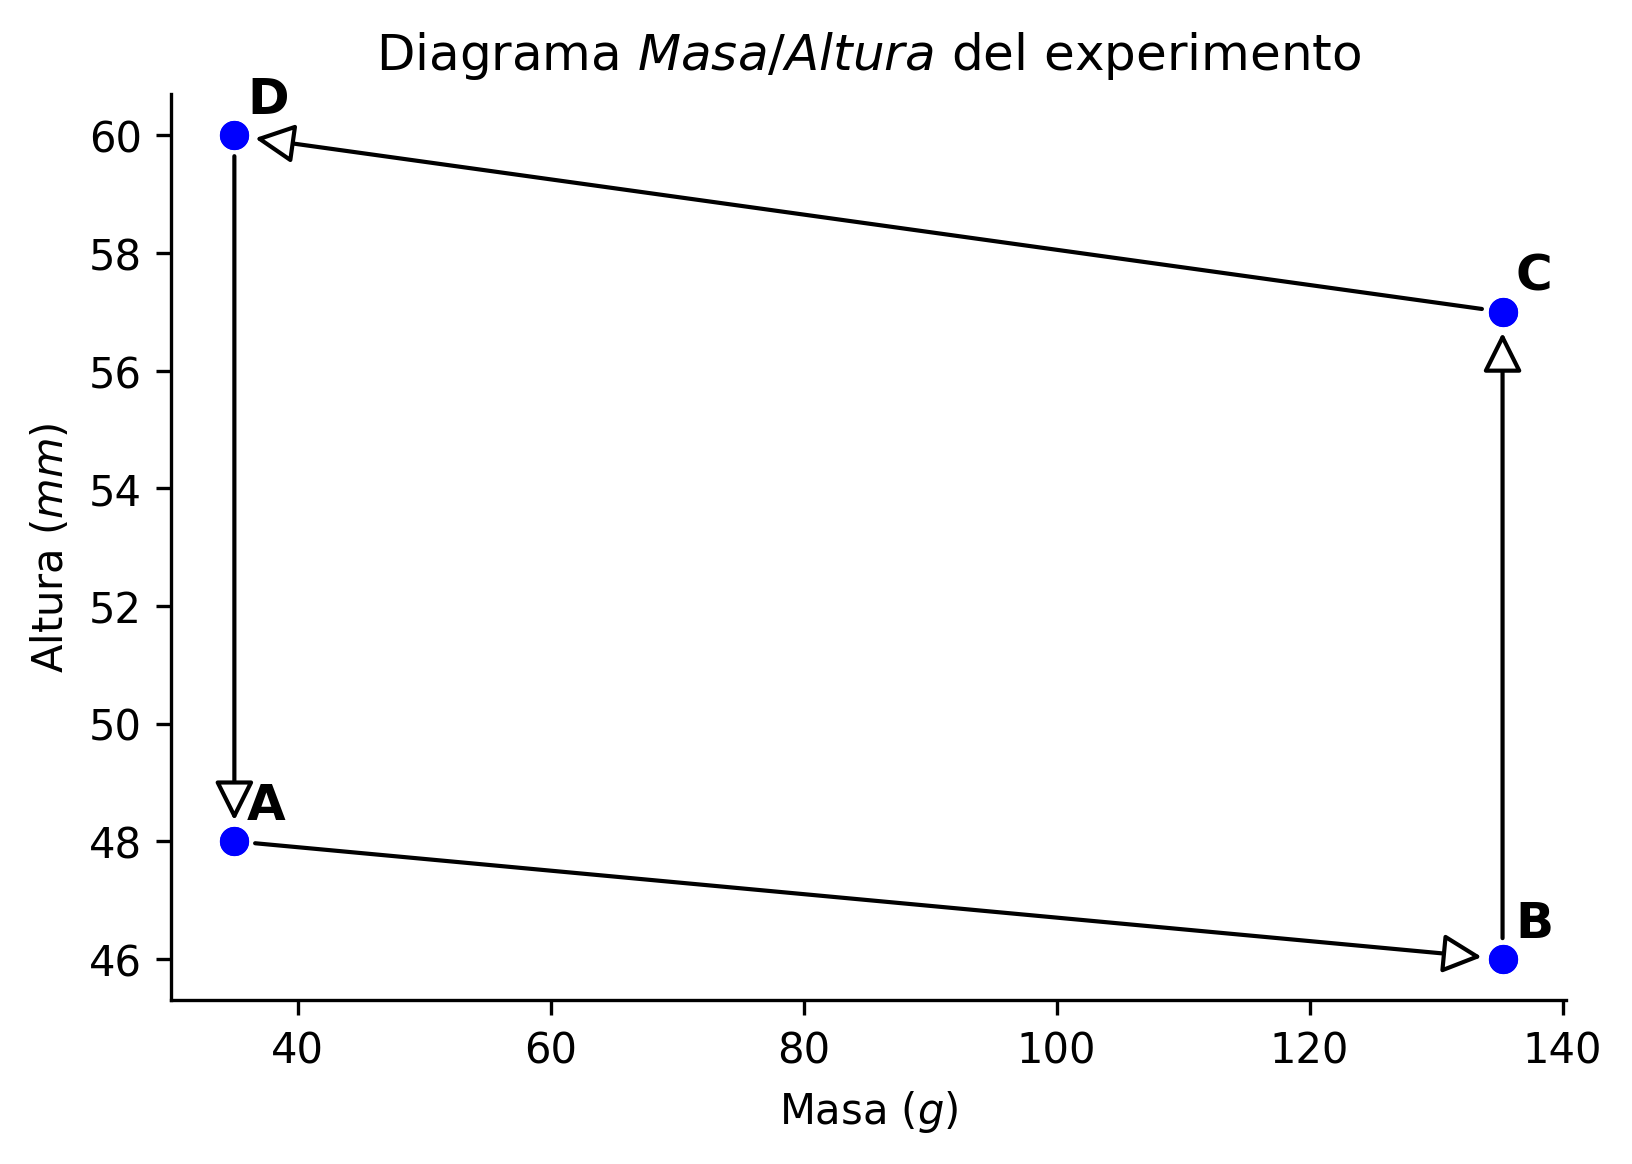
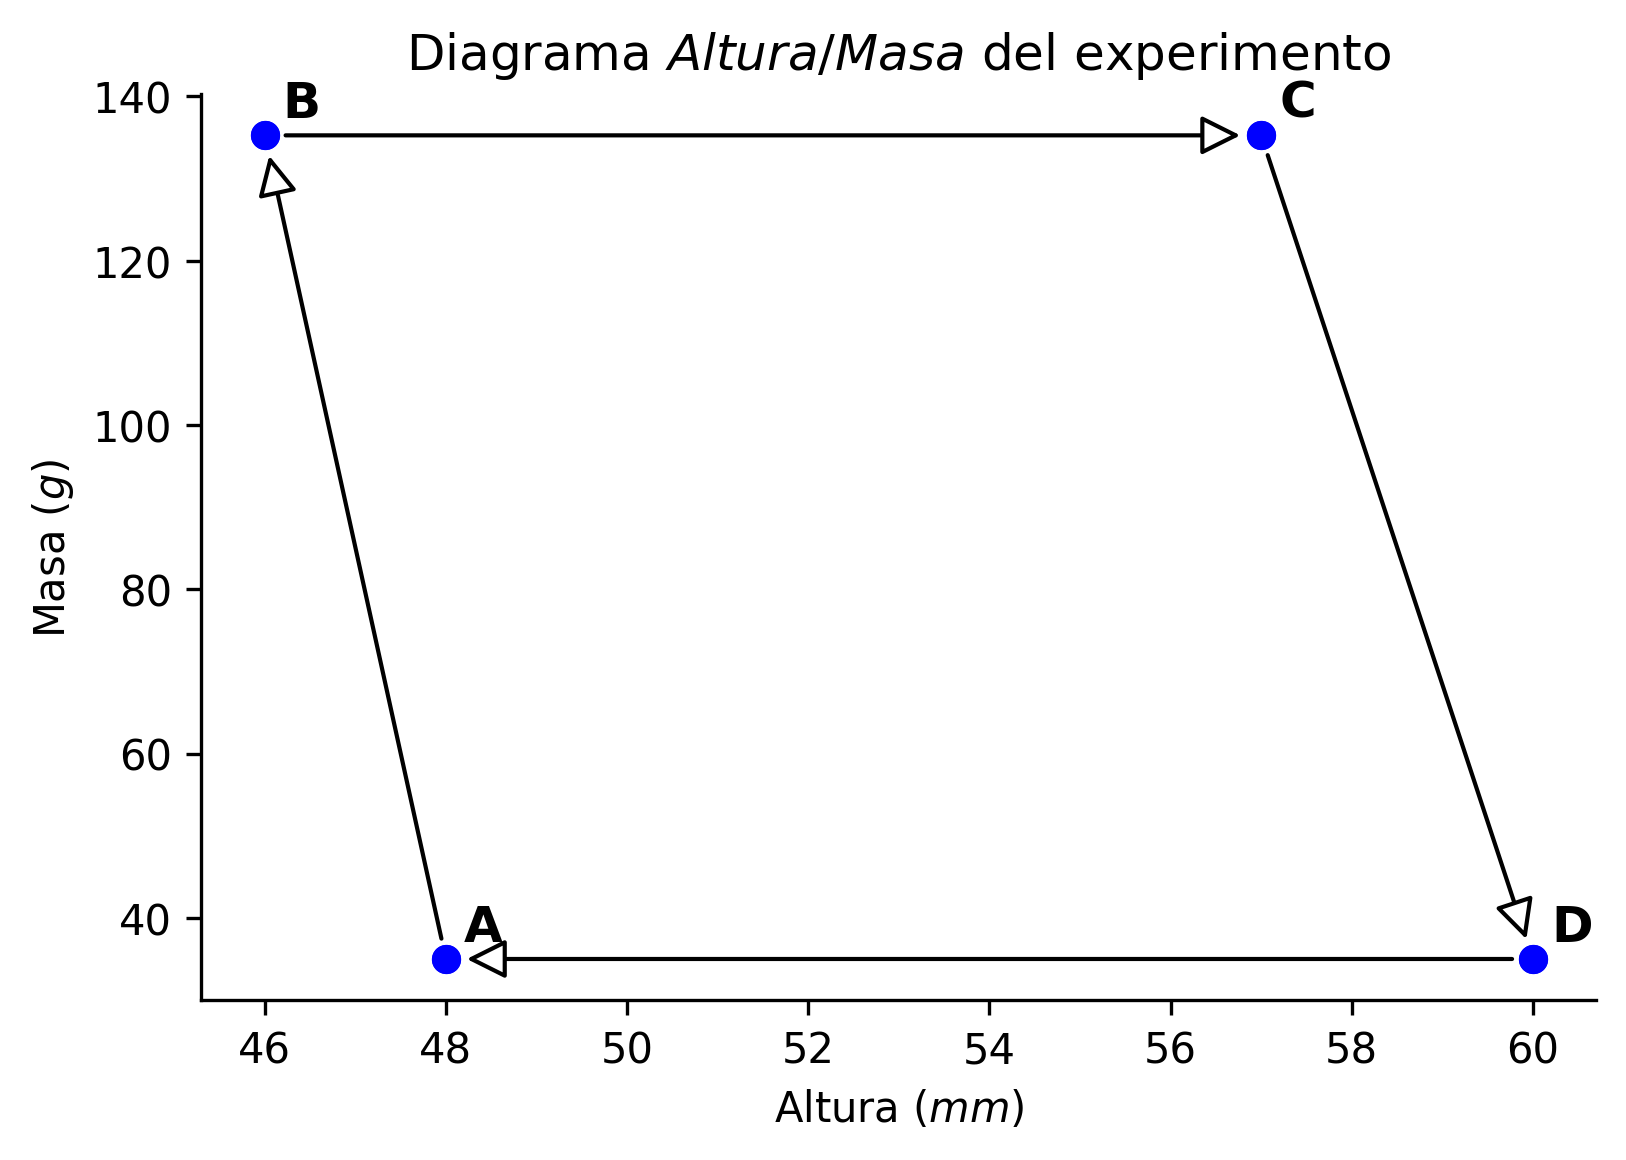
Analisis experimento 4

diff --git a/Experimento 4/analisis.py b/Experimento 4/analisis.py
@@ -4,6 +4,7 @@ from IPython.display import display
 import matplotlib.pyplot as plt
 from matplotlib.patches import ConnectionPatch
 import numpy as np
+from shapely.geometry import Polygon
 
 # %% codecell
 #leemos el excel y lo pasamos a un DataFrame de pandas
@@ -55,9 +56,9 @@ display(parametros)
 fig, ax = plt.subplots()
 iterator = data.iterrows()
 row = next(iterator)
-plt.title('Diagrama $Masa/Altura$ del experimento')
-plt.xlabel('Masa $(g)$')
-plt.ylabel('Altura $(mm)$')
+plt.title('Diagrama $Altura/Masa$ del experimento')
+plt.ylabel('Masa $(g)$')
+plt.xlabel('Altura $(mm)$')
 for _ in range(len(data) - 1):
     h1, m1 = row[1]
     n1 = row[0]
@@ -66,12 +67,12 @@ for _ in range(len(data) - 1):
     n2 = row[0]
     coordsA = 'data'
     coordsB = 'data'
-    con = ConnectionPatch((m1, h1), (m2, h2), coordsA, coordsB,
+    con = ConnectionPatch((h1, m1), (h2, m2), coordsA, coordsB,
                       arrowstyle="-|>", shrinkA=5, shrinkB=5,
                       mutation_scale=20, fc="w")
-    ax.plot([m1, m2], [h1, h2], 'bo')
+    ax.plot([h1, h2], [m1, m2], 'bo')
     ax.text(
-        m1 + 1, h1 + 0.2, n1,
+        h1 + 0.2, m1 + 1, n1,
         verticalalignment='bottom', horizontalalignment = 'left',
         fontsize=12, fontweight = 'bold'#, fontfamily = 'serif'
     )
@@ -101,8 +102,8 @@ fig, ax = plt.subplots()
 iterator = data.iterrows()
 row = next(iterator)
 plt.title('Diagrama $P/V$ del experimento')
-plt.xlabel('Presion ($Pa$)')
-plt.ylabel('Volumen ($10^{-5}m^3$)')
+plt.ylabel('Presion ($Pa$)')
+plt.xlabel('Volumen ($10^{-5}m^3$)')
 for _ in range(len(data) - 1):
     v1, p1 = row[1][2:]
     n1 = row[0]
@@ -111,12 +112,12 @@ for _ in range(len(data) - 1):
     n2 = row[0]
     coordsA = 'data'
     coordsB = 'data'
-    con = ConnectionPatch((p1, v1), (p2, v2), coordsA, coordsB,
+    con = ConnectionPatch((v1, p1), (v2, p2), coordsA, coordsB,
                       arrowstyle="-|>", shrinkA=5, shrinkB=5,
                       mutation_scale=20, fc="w")
-    plt.plot([p1, p2], [v1, v2], 'bo')
+    plt.plot([v1, v2], [p1, p2], 'bo')
     ax.text(
-        p1 + 20, v1, n1[:1],
+        v1, p1 + 15, n1[:1],
         verticalalignment='bottom', horizontalalignment = 'left',
         fontsize=12, fontweight = 'bold'#, fontfamily = 'serif'
     )
@@ -125,3 +126,10 @@ ax.spines['right'].set_visible(False)
 ax.spines['top'].set_visible(False)
 plt.savefig('graf_pv', dpi=300, bbox_inches = 'tight')
 plt.show()
+
+# %% codecell
+#calculo de área
+base_trapecio = abs(data.at['D','V'] - data.at['A', 'V'])
+altura_trapecio = abs(data.at['B', 'P'] - data.at['A', 'P'])
+area_trapecio = base_trapecio * altura_trapecio
+print(area_trapecio)
